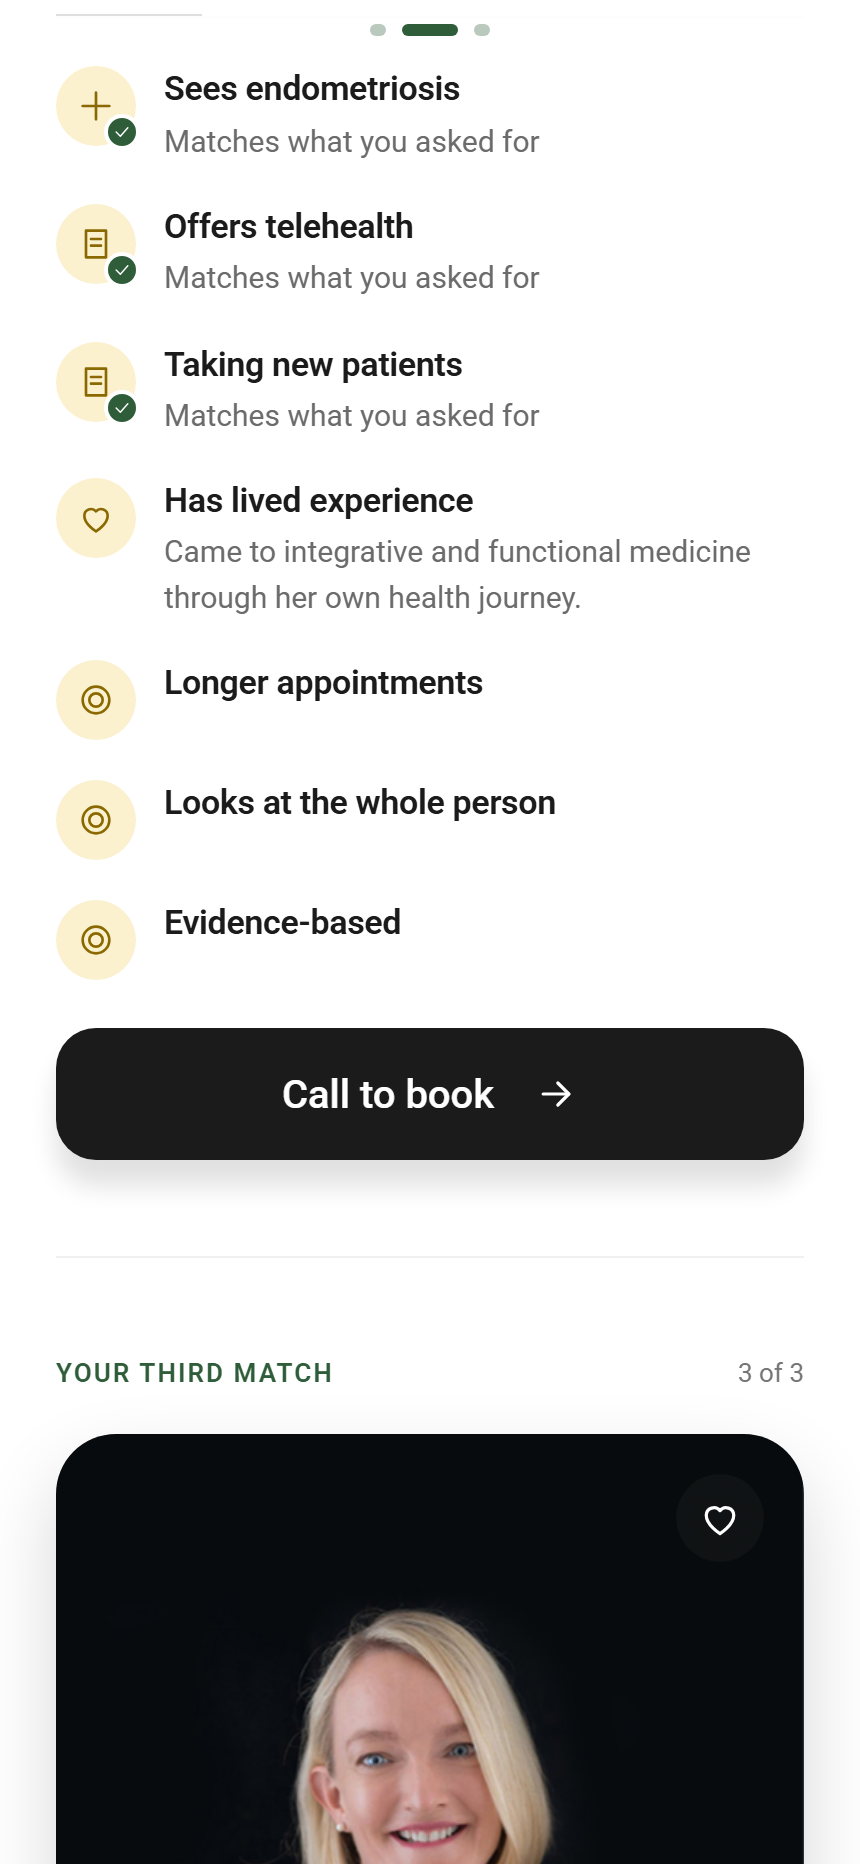
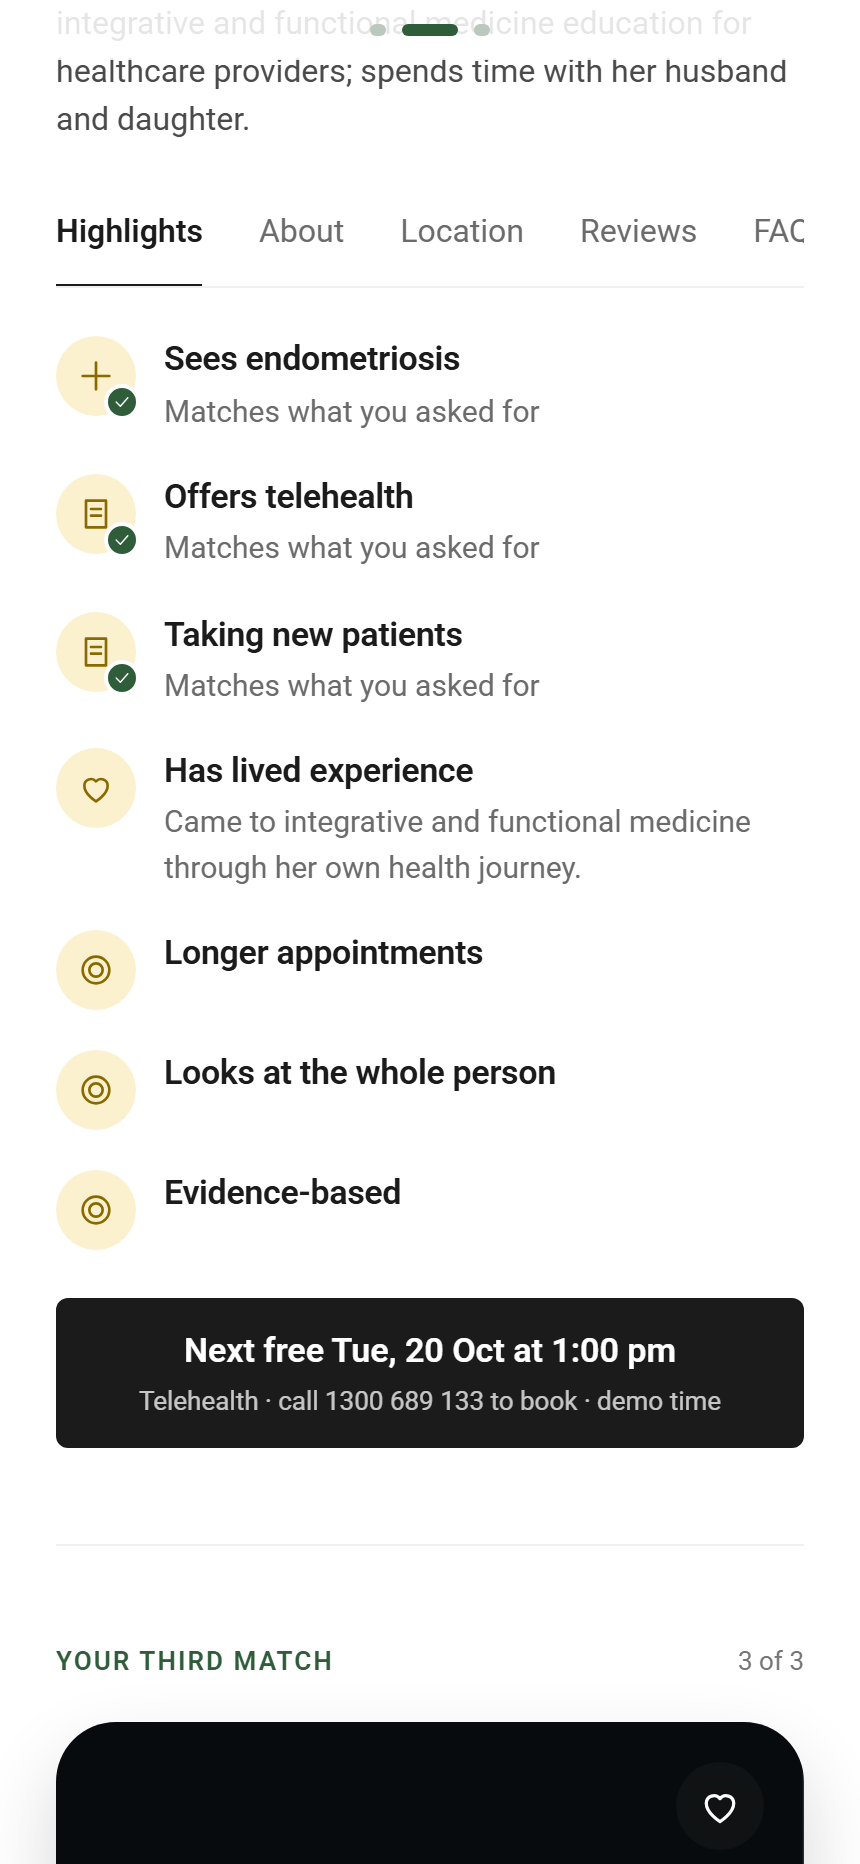
About tab long-form (every own word in full, nothing clamped, nothing repeated); bottom action is 'Next free <date> at <time>' (calls the practice), on phone and in the laptop openings card

diff --git a/src/ui/screens/patient-a/MatchPanel.tsx b/src/ui/screens/patient-a/MatchPanel.tsx
@@ -10,12 +10,12 @@ import type { DoctorRecord } from "@/src/data/types";
 import { doctorHref } from "@/src/data/doctor-slug";
 import { demoOpenings } from "@/src/data/calendar";
 import { Check, Labelled } from "@/src/ui/kit";
-import { Facts, Research, Sources, Words } from "@/src/ui/screens/patient-b/Profile";
+import { Facts, Research, Sources, WordsFull } from "@/src/ui/screens/patient-b/Profile";
 import { ContactCta } from "@/src/ui/screens/patient-b/ProfileClient";
 import { Reviews } from "@/src/ui/screens/patient-b/Reviews";
 import { conditionLabels, drShort, feeOf, listSentence, personalOf, placeOf, primaryRoom, specialtyTitle, wordsSource } from "@/src/ui/screens/patient-b/facts";
 import { fitSentence, Portrait } from "./DoctorCard";
-import { BookCard } from "./BookCard";
+import { BookCard, NextFree, nextFreeLabel } from "./BookCard";
 import type { Highlight } from "@/src/data/search-types";
 
 const ORDINAL = ["Your top match", "Your second match", "Your third match"];
@@ -92,10 +92,12 @@ export function MatchPanel({ card, index, total, labels, saved, onSave, newPatie
   const ownWords = [personal?.philosophyOfCare, personal?.philosophy, personal?.communicationApproach, personal?.purpose, personal?.professionalPurpose].find((t) => t && t.trim().length > 30)?.trim();
   const ownLine = ownWords ? (ownWords.match(/^.{30,220}?[.!?](\s|$)/)?.[0] ?? ownWords.slice(0, 200) + "…").trim() : null;
   const [next, setNext] = useState<string | null>(null);
+  const [nextMode, setNextMode] = useState<string | null>(null);
   useEffect(() => {
     const all = demoOpenings(d.id, d.declared?.telehealth === true && d.telehealth?.value !== "none", Date.now());
     const o = telehealthOnly ? all.find((x) => x.mode === "telehealth") : all[0];
-    setNext(o ? `${new Date(o.start).toLocaleString("en-AU", { weekday: "short", hour: "numeric", minute: "2-digit" })}${o.mode === "telehealth" ? ", telehealth" : ""}` : null);
+    setNext(o ? nextFreeLabel(o.start) : null);
+    setNextMode(o?.mode ?? null);
   }, [d, telehealthOnly]);
   const hobbies = personal ? [personal.hobbies ?? []].flat().filter(Boolean) : [];
   const outside = personal?.outsideMedicine?.trim() || (hobbies.length ? hobbies.map((h, i) => (i && !/^[A-Z]{2}/.test(h) ? h.charAt(0).toLowerCase() + h.slice(1) : h)).join(", ").replace(/, (?=[^,]*$)/, " and ") : null);
@@ -144,7 +146,6 @@ export function MatchPanel({ card, index, total, labels, saved, onSave, newPatie
       {outside ? (
         <p className="mt-4 text-[16px] leading-[1.5] text-ink"><span className="font-semibold">Outside the clinic </span><span className="text-[#4a4a4a]">{outside.charAt(0).toUpperCase() + outside.slice(1)}</span></p>
       ) : null}
-      <div className="lg:hidden">{next ? <p className="mt-3 text-[15px] text-ink"><span className="font-semibold text-[#2f5d3a]">Next opening</span> {next} <span className="text-[13px] text-grey">· demo</span></p> : null}</div>
 
       <div role="tablist" aria-label="Doctor details" className="mt-8 flex gap-7 overflow-x-auto border-b border-divider [scrollbar-width:none] lg:gap-10">
         {tabs.map((t) => (
@@ -156,7 +157,7 @@ export function MatchPanel({ card, index, total, labels, saved, onSave, newPatie
         {tab === "About" ? (
           <div className="flex flex-col gap-7">
             <Facts d={d} />
-            {personal ? <Words d={d} skipMeet skipOutside={Boolean(outside)} shown={ownLine} /> : <p className="text-[16px] text-grey">They haven’t written about how they work yet.</p>}
+            {personal ? <WordsFull d={d} shown={[ownLine, outside]} /> : <p className="text-[16px] text-grey">They haven’t written about how they work yet.</p>}
             <Labelled label="Sees">
               <p className="text-[17px] leading-[1.5] text-charcoal">{conditions.length ? `${listSentence(conditions)}.` : "No clinical focus listed yet."}</p>
             </Labelled>
@@ -196,7 +197,7 @@ export function MatchPanel({ card, index, total, labels, saved, onSave, newPatie
         ) : null}
       </div>
       <div className="mt-6 lg:hidden">
-        <ContactCta inline doctor={d} label="Call to book" note={referral ? "GP referral needed first" : undefined} />
+        {next ? <NextFree doctor={d} when={next} mode={nextMode} referral={referral} /> : <ContactCta inline doctor={d} label="Call to book" note={referral ? "GP referral needed first" : undefined} />}
       </div>
       </div>
       <aside className="hidden lg:sticky lg:top-20 lg:block">

diff --git a/src/ui/screens/patient-b/Profile.tsx b/src/ui/screens/patient-b/Profile.tsx
@@ -59,6 +59,74 @@ function similar(a: string | null, b: string | null): boolean {
   return shared / Math.max(1, Math.min(wa.size, wb.size)) > 0.5;
 }
 
+/**
+ * The About tab, long form (founder 2026-10-19: "have them be lengthy"). Every piece of the doctor's
+ * own published words, in full, no clamps. Only text the panel above already shows word for word
+ * (the opening line, the outside-the-clinic line) is left out, so nothing is said twice.
+ */
+export function WordsFull({ d, shown = [] }: { d: DoctorRecord; shown?: (string | null | undefined)[] }) {
+  const p = personalOf(d);
+  if (!p) return null;
+  const pr = pronouns(d);
+  const seen: string[] = shown.filter((x): x is string => Boolean(x && x.trim()));
+  const norm = (t: string) => t.toLowerCase().replace(/[“”"'’.,;:!?()\-–—]/g, " ").replace(/\s+/g, " ").trim();
+  const isShown = (t: string | null | undefined) => {
+    if (!t) return true;
+    const n = norm(t);
+    return seen.some((x) => { const m = norm(x); return n === m || (m.includes(n) && n.length > 20); });
+  };
+  const take = (t: string | null | undefined) => {
+    if (!t || isShown(t)) return null;
+    seen.push(t);
+    return t;
+  };
+  const para = (t: string, k?: string) => <p key={k} className="text-[17px] leading-[1.6] text-charcoal">{t}</p>;
+  const philosophy = take(p.philosophyOfCare ?? p.philosophy ?? null);
+  const approach = take(p.communicationApproach ?? null);
+  const purpose = take(p.professionalPurpose ?? p.purpose ?? null);
+  const why = take(p.whyMedicine ?? null);
+  const lived = asList(p.livedExperience).filter((x) => take(x));
+  const hobbies = [p.hobbies ?? []].flat().filter(Boolean) as string[];
+  const outsideMed = take(p.outsideMedicine ?? null);
+  const hobbiesShown = isShown(hobbies.join(", ")) || seen.some((x) => hobbies.length > 1 && hobbies.every((h) => norm(x).includes(norm(h))));
+  const ABOUT: Record<string, string> = { why: "Why medicine", approach: "How they work", lived: "Lived experience", hobbies: "Outside the clinic", other: "From their page" };
+  const quotes = (p.quotes ?? []).filter((q) => !seen.some((x) => similar(q.text, x)) && take(q.text));
+  const own = [philosophy, approach, purpose].filter((x): x is string => Boolean(x));
+  return (
+    <div className="flex flex-col gap-9">
+      {own.length ? (
+        <Labelled label={`In ${pr.possessive.toLowerCase()} own words`}>
+          <div className="flex flex-col gap-4">{own.map((t, i) => para(i === 0 && philosophy === t ? `“${t.replace(/^[“"]|[”"]$/g, "")}”` : t, `o${i}`))}</div>
+        </Labelled>
+      ) : null}
+      {why ? <Labelled label="Why medicine">{para(why)}</Labelled> : null}
+      {lived.length ? <Labelled label="Lived experience"><div className="flex flex-col gap-3">{lived.map((t, i) => para(t, `l${i}`))}</div></Labelled> : null}
+      {outsideMed || (hobbies.length && !hobbiesShown) ? (
+        <Labelled label="Outside the clinic">
+          <div className="flex flex-col gap-3">
+            {outsideMed ? para(outsideMed) : null}
+            {hobbies.length && !hobbiesShown ? (
+              <ul className="flex flex-col gap-1.5">{hobbies.map((h) => <li key={h} className="flex gap-2.5 text-[17px] leading-[1.5] text-charcoal"><span aria-hidden="true" className="mt-[11px] size-1.5 shrink-0 rounded-full bg-[#8a6a3b]" />{h}</li>)}</ul>
+            ) : null}
+          </div>
+        </Labelled>
+      ) : null}
+      {quotes.length ? (
+        <Labelled label="From their page">
+          <div className="flex flex-col gap-5">
+            {quotes.map((q, i) => (
+              <blockquote key={i} className="border-l-2 border-[#d9d5ca] pl-4">
+                <p className="font-display text-[19px] leading-[1.5] text-ink">“{q.text.replace(/^[“"]|[”"]$/g, "")}”</p>
+                <p className="mt-1 text-[14px] text-[#6b6b6b]">{ABOUT[q.about] ?? "From their page"}</p>
+              </blockquote>
+            ))}
+          </div>
+        </Labelled>
+      ) : null}
+    </div>
+  );
+}
+
 /** skipOutside / shown: leave out what the panel above already says (no repetition). */
 export function Words({ d, skipMeet = false, skipOutside = false, shown = null }: { d: DoctorRecord; skipMeet?: boolean; skipOutside?: boolean; shown?: string | null }) {
   const p = personalOf(d);

diff --git a/src/ui/screens/patient-a/BookCard.tsx b/src/ui/screens/patient-a/BookCard.tsx
@@ -30,6 +30,7 @@ export function BookCard({ doctor: d, telehealthOnly, referral }: { doctor: Doct
   const room = primaryRoom(d);
   const phone = room?.phone ?? d.booking?.phone ?? null;
   const site = d.booking?.url ?? room?.website ?? null;
+  const firstSlot = days.flatMap((x) => x.slots)[0] ?? null;
   const fmt = (t: number, o: Intl.DateTimeFormatOptions) => new Date(t).toLocaleDateString("en-AU", o);
 
   return (
@@ -66,19 +67,39 @@ export function BookCard({ doctor: d, telehealthOnly, referral }: { doctor: Doct
           );
         })}
       </div>
-      {view.some((v) => v.slots.length) ? (
-        <p className="mt-4 text-[14px] text-[#4a4a4a]">
-          Next: <span className="font-semibold text-ink">{(() => { const o = view.flatMap((v) => v.slots)[0]!; return new Date(o.start).toLocaleString("en-AU", { weekday: "long", hour: "numeric", minute: "2-digit" }); })()}</span>
-        </p>
-      ) : null}
       <div className="mt-6">
         {referral ? <p className="mb-2 text-[14px] text-[#4a4a4a]">You’ll need a GP referral first.</p> : null}
-        {phone ? (
+        {firstSlot ? (
+          <NextFree doctor={d} when={nextFreeLabel(firstSlot.start)} mode={firstSlot.mode} referral={false} />
+        ) : phone ? (
           <a href={`tel:${phone.replace(/[^\d+]/g, "")}`} className="press flex h-12 w-full items-center justify-center rounded-[6px] bg-ink text-[16px] font-semibold text-white">Call {phone}</a>
         ) : site ? (
           <a href={site} target="_blank" rel="noreferrer" className="press flex h-12 w-full items-center justify-center rounded-[6px] bg-ink text-[16px] font-semibold text-white">Book on their website</a>
         ) : null}
       </div>
+    </div>
+  );
+}
+
+/** "Tue 21 Oct at 10:00 am" */
+export function nextFreeLabel(t: number): string {
+  const d = new Date(t);
+  return `${d.toLocaleDateString("en-AU", { weekday: "short", day: "numeric", month: "short" })} at ${d.toLocaleTimeString("en-AU", { hour: "numeric", minute: "2-digit" })}`;
+}
+
+/** The bottom-of-page action: the next free time, which rings the practice to book it (demo times). */
+export function NextFree({ doctor: d, when, mode, referral }: { doctor: DoctorRecord; when: string; mode: string | null; referral: boolean }) {
+  const room = primaryRoom(d);
+  const phone = room?.phone ?? d.booking?.phone ?? null;
+  const site = d.booking?.url ?? room?.website ?? null;
+  const href = phone ? `tel:${phone.replace(/[^\d+]/g, "")}` : site ?? undefined;
+  return (
+    <div>
+      {referral ? <p className="mb-2 text-[14px] text-[#4a4a4a]">You’ll need a GP referral first.</p> : null}
+      <a href={href} target={phone ? undefined : "_blank"} rel="noreferrer" className="press flex w-full flex-col items-center justify-center rounded-[6px] bg-ink px-4 py-3.5 text-center text-white">
+        <span className="text-[17px] font-semibold">Next free {when}</span>
+        <span className="mt-0.5 text-[13px] text-white/75">{[mode === "telehealth" ? "Telehealth" : "In person", phone ? `call ${phone} to book` : "book on their site", "demo time"].join(" · ")}</span>
+      </a>
     </div>
   );
 }
